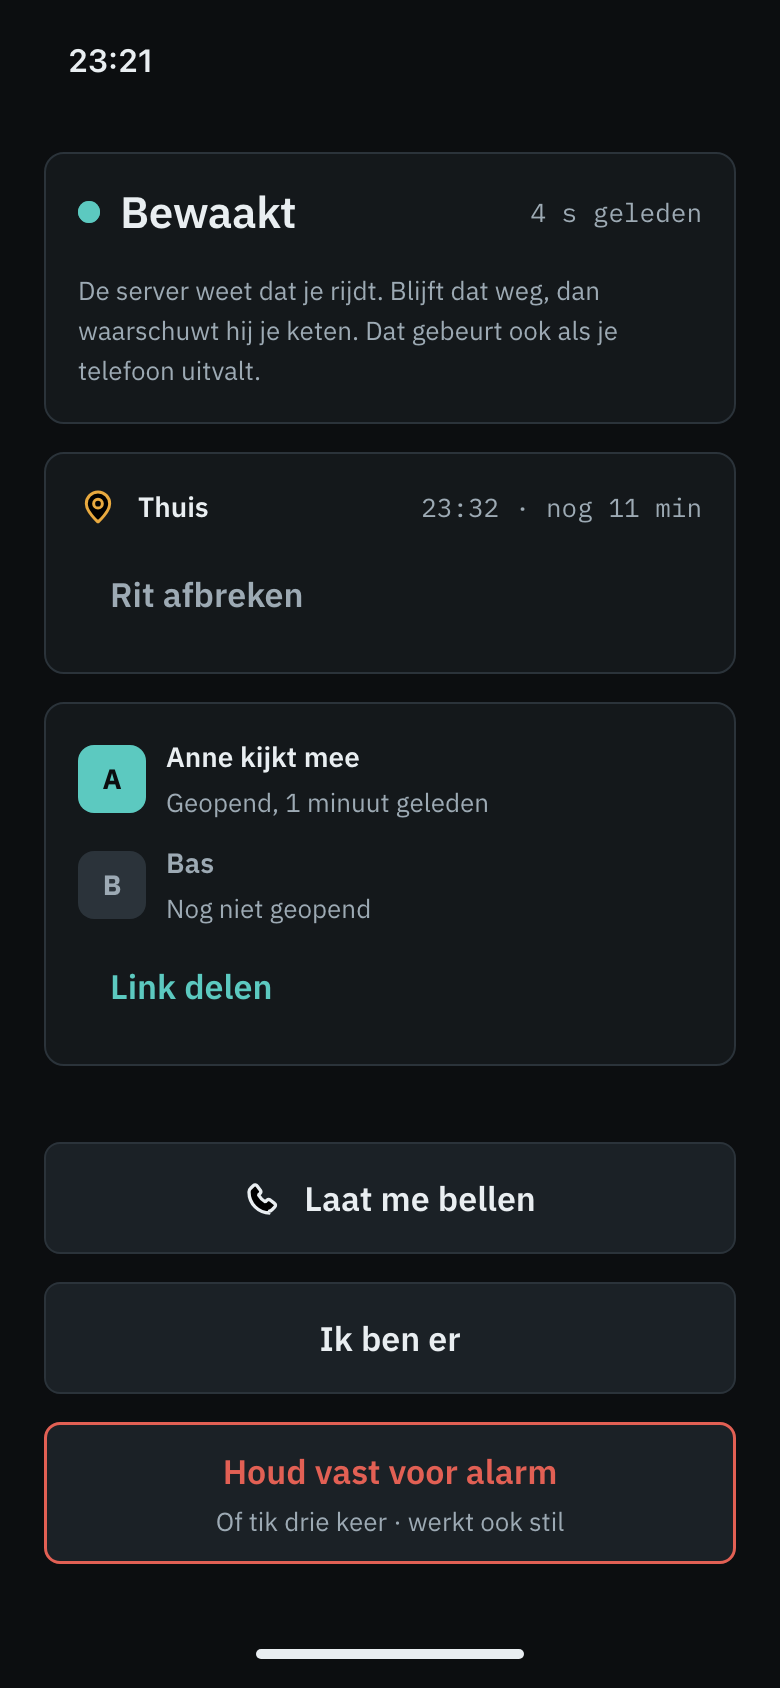
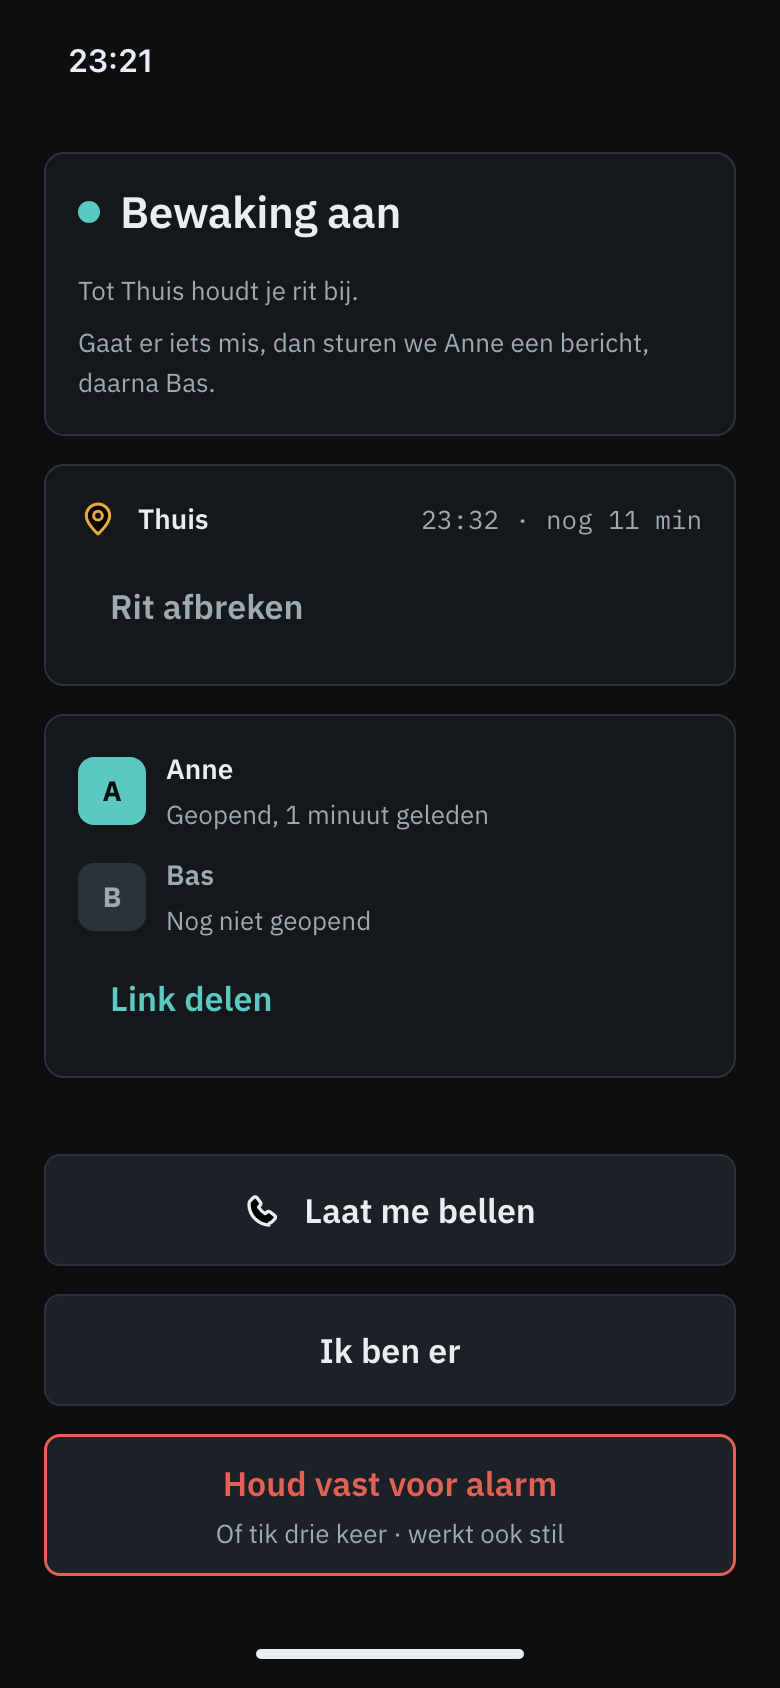
Het woordmerk in kop en voet, ruimte rond de kop op brede schermen, en het ritscherm van nu

diff --git a/index.html b/index.html
@@ -9,7 +9,7 @@
 </head>
 <body>
 <header class="breed kop">
-  <a class="merk" href="./">Tot Thuis</a>
+  <a class="merk" href="./" aria-label="Tot Thuis"><!-- woordmerk --><svg viewBox="0 0 434.21 221.22" width="84" height="42.8" aria-hidden="true" focusable="false"><path d="M0 25.23L0 1.61L84.83 1.61L84.83 25.23L56.38 25.23L56.38 101.61L28.46 101.61L28.46 25.23L0 25.23ZM131.14 103.22Q117.51 103.22 106.47 97.25Q95.43 91.28 88.99 79.77Q82.55 68.26 82.55 51.68Q82.55 34.97 88.99 23.42Q95.43 11.88 106.47 5.94Q117.51 0 131.14 0Q144.76 0 155.77 5.94Q166.77 11.88 173.25 23.42Q179.73 34.97 179.73 51.68Q179.73 68.32 173.25 79.83Q166.77 91.34 155.77 97.28Q144.76 103.22 131.14 103.22ZM131.14 79.06Q137.71 79.06 142.28 75.81Q146.84 72.55 149.19 66.41Q151.54 60.27 151.54 51.68Q151.54 43.02 149.19 36.85Q146.84 30.67 142.28 27.42Q137.71 24.16 131.14 24.16Q124.63 24.16 120.06 27.42Q115.5 30.67 113.12 36.85Q110.73 43.02 110.73 51.68Q110.73 60.27 113.12 66.41Q115.5 72.55 120.06 75.81Q124.63 79.06 131.14 79.06ZM177.44 25.23L177.44 1.61L262.27 1.61L262.27 25.23L233.82 25.23L233.82 101.61L205.9 101.61L205.9 25.23L177.44 25.23ZM0 143.23L0 119.61L84.83 119.61L84.83 143.23L56.38 143.23L56.38 219.61L28.46 219.61L28.46 143.23L0 143.23ZM89.86 219.61L89.86 119.61L117.78 119.61L117.78 156.99L151.07 156.99L151.07 119.61L178.99 119.61L178.99 219.61L151.07 219.61L151.07 180.62L117.78 180.62L117.78 219.61L89.86 219.61ZM229.79 221.22Q216.72 221.22 207.05 216.62Q197.38 212.03 192.04 203.66Q186.7 195.29 186.7 184.04L186.7 119.61L213.82 119.61L213.82 181.76Q213.82 186.39 215.9 189.98Q217.98 193.57 221.56 195.65Q225.14 197.73 229.82 197.73Q234.49 197.73 238.08 195.67Q241.66 193.61 243.71 190.03Q245.76 186.46 245.76 181.76L245.76 119.61L272.88 119.61L272.88 184.03Q272.88 195.32 267.55 203.68Q262.22 212.05 252.54 216.64Q242.86 221.22 229.79 221.22ZM308.51 119.61L308.51 219.61L280.59 219.61L280.59 119.61L308.51 119.61ZM358.11 221.22Q344.28 221.22 334.68 217.19Q325.09 213.17 320.12 205.35Q315.15 197.53 315.15 186.32L341.53 186.32Q341.73 190.35 343.84 193.23Q345.96 196.12 349.68 197.66Q353.41 199.21 358.44 199.21Q362.87 199.21 366.16 198.1Q369.45 196.99 371.29 195.01Q373.14 193.03 373.14 190.42Q373.14 188 371.39 186.19Q369.65 184.38 366.03 183.03Q362.4 181.69 356.76 180.62L346.83 178.74Q332.33 175.99 324.68 168.54Q317.03 161.09 317.03 149.95Q317.03 140.42 322.2 133.23Q327.37 126.05 336.56 122.03Q345.76 118 357.9 118Q370.39 118 379.38 121.96Q388.37 125.92 393.34 133.37Q398.31 140.82 398.64 151.29L373.01 151.29Q372.54 146.05 368.61 143.03Q364.68 140.01 358.44 140.01Q354.55 140.01 351.53 141.12Q348.51 142.23 346.8 144.14Q345.09 146.05 345.09 148.6Q345.09 151.02 346.63 152.7Q348.17 154.38 351.5 155.62Q354.82 156.86 359.98 157.8L368.04 159.28Q376.63 160.89 382.84 163.37Q389.05 165.85 393.01 169.41Q396.96 172.97 398.84 177.66Q400.72 182.36 400.72 188.34Q400.72 198.81 395.72 206.15Q390.72 213.5 381.19 217.36Q371.66 221.22 358.11 221.22Z" fill="currentColor"/><circle class="stip" cx="420.25" cy="206.93" r="13.96"/></svg><!-- /woordmerk --></a>
   <nav aria-label="Op deze pagina">
     <a href="#hoe">Hoe het werkt</a>
     <a href="privacy">Privacy</a>
@@ -27,7 +27,7 @@
     <div>
       <div class="toestellen">
         <figure class="toestel"><img src="beeld/keten.png" width="780" height="1688" alt="Het scherm Je keten: Anne en Bas staan als vertrouwenspersonen op volgorde, en Anne heeft op 2 oktober op een test gereageerd."></figure>
-        <figure class="toestel"><img src="beeld/rit.png" width="780" height="1688" alt="Het scherm tijdens een rit: bewaakt, onderweg naar Thuis, verwacht om 23:32, en Anne kijkt mee."></figure>
+        <figure class="toestel"><img src="beeld/rit.png" width="780" height="1688" alt="Het scherm tijdens een rit: bewaking aan, onderweg naar Thuis, verwacht om 23:32. Gaat er iets mis, dan stuurt de app Anne een bericht, daarna Bas."></figure>
       </div>
       <p class="onderschrift gedempt klein">Twee schermen uit de app, met voorbeeldnamen.</p>
     </div>
@@ -160,7 +160,7 @@
 
 <footer class="voet">
   <div class="breed">
-    <a class="merk" href="./">Tot Thuis</a>
+    <a class="merk" href="./" aria-label="Tot Thuis"><!-- woordmerk --><svg viewBox="0 0 434.21 221.22" width="84" height="42.8" aria-hidden="true" focusable="false"><path d="M0 25.23L0 1.61L84.83 1.61L84.83 25.23L56.38 25.23L56.38 101.61L28.46 101.61L28.46 25.23L0 25.23ZM131.14 103.22Q117.51 103.22 106.47 97.25Q95.43 91.28 88.99 79.77Q82.55 68.26 82.55 51.68Q82.55 34.97 88.99 23.42Q95.43 11.88 106.47 5.94Q117.51 0 131.14 0Q144.76 0 155.77 5.94Q166.77 11.88 173.25 23.42Q179.73 34.97 179.73 51.68Q179.73 68.32 173.25 79.83Q166.77 91.34 155.77 97.28Q144.76 103.22 131.14 103.22ZM131.14 79.06Q137.71 79.06 142.28 75.81Q146.84 72.55 149.19 66.41Q151.54 60.27 151.54 51.68Q151.54 43.02 149.19 36.85Q146.84 30.67 142.28 27.42Q137.71 24.16 131.14 24.16Q124.63 24.16 120.06 27.42Q115.5 30.67 113.12 36.85Q110.73 43.02 110.73 51.68Q110.73 60.27 113.12 66.41Q115.5 72.55 120.06 75.81Q124.63 79.06 131.14 79.06ZM177.44 25.23L177.44 1.61L262.27 1.61L262.27 25.23L233.82 25.23L233.82 101.61L205.9 101.61L205.9 25.23L177.44 25.23ZM0 143.23L0 119.61L84.83 119.61L84.83 143.23L56.38 143.23L56.38 219.61L28.46 219.61L28.46 143.23L0 143.23ZM89.86 219.61L89.86 119.61L117.78 119.61L117.78 156.99L151.07 156.99L151.07 119.61L178.99 119.61L178.99 219.61L151.07 219.61L151.07 180.62L117.78 180.62L117.78 219.61L89.86 219.61ZM229.79 221.22Q216.72 221.22 207.05 216.62Q197.38 212.03 192.04 203.66Q186.7 195.29 186.7 184.04L186.7 119.61L213.82 119.61L213.82 181.76Q213.82 186.39 215.9 189.98Q217.98 193.57 221.56 195.65Q225.14 197.73 229.82 197.73Q234.49 197.73 238.08 195.67Q241.66 193.61 243.71 190.03Q245.76 186.46 245.76 181.76L245.76 119.61L272.88 119.61L272.88 184.03Q272.88 195.32 267.55 203.68Q262.22 212.05 252.54 216.64Q242.86 221.22 229.79 221.22ZM308.51 119.61L308.51 219.61L280.59 219.61L280.59 119.61L308.51 119.61ZM358.11 221.22Q344.28 221.22 334.68 217.19Q325.09 213.17 320.12 205.35Q315.15 197.53 315.15 186.32L341.53 186.32Q341.73 190.35 343.84 193.23Q345.96 196.12 349.68 197.66Q353.41 199.21 358.44 199.21Q362.87 199.21 366.16 198.1Q369.45 196.99 371.29 195.01Q373.14 193.03 373.14 190.42Q373.14 188 371.39 186.19Q369.65 184.38 366.03 183.03Q362.4 181.69 356.76 180.62L346.83 178.74Q332.33 175.99 324.68 168.54Q317.03 161.09 317.03 149.95Q317.03 140.42 322.2 133.23Q327.37 126.05 336.56 122.03Q345.76 118 357.9 118Q370.39 118 379.38 121.96Q388.37 125.92 393.34 133.37Q398.31 140.82 398.64 151.29L373.01 151.29Q372.54 146.05 368.61 143.03Q364.68 140.01 358.44 140.01Q354.55 140.01 351.53 141.12Q348.51 142.23 346.8 144.14Q345.09 146.05 345.09 148.6Q345.09 151.02 346.63 152.7Q348.17 154.38 351.5 155.62Q354.82 156.86 359.98 157.8L368.04 159.28Q376.63 160.89 382.84 163.37Q389.05 165.85 393.01 169.41Q396.96 172.97 398.84 177.66Q400.72 182.36 400.72 188.34Q400.72 198.81 395.72 206.15Q390.72 213.5 381.19 217.36Q371.66 221.22 358.11 221.22Z" fill="currentColor"/><circle class="stip" cx="420.25" cy="206.93" r="13.96"/></svg><!-- /woordmerk --></a>
     <p class="regels">
       <span>Mischa van Schajik, Zaandam</span>
       <a href="mailto:info@totthuis.nl">info@totthuis.nl</a>

diff --git a/t.html b/t.html
@@ -10,7 +10,7 @@
 </head>
 <body>
 <header class="breed kop">
-  <a class="merk" href="./">Tot Thuis</a>
+  <a class="merk" href="./" aria-label="Tot Thuis"><!-- woordmerk --><svg viewBox="0 0 434.21 221.22" width="84" height="42.8" aria-hidden="true" focusable="false"><path d="M0 25.23L0 1.61L84.83 1.61L84.83 25.23L56.38 25.23L56.38 101.61L28.46 101.61L28.46 25.23L0 25.23ZM131.14 103.22Q117.51 103.22 106.47 97.25Q95.43 91.28 88.99 79.77Q82.55 68.26 82.55 51.68Q82.55 34.97 88.99 23.42Q95.43 11.88 106.47 5.94Q117.51 0 131.14 0Q144.76 0 155.77 5.94Q166.77 11.88 173.25 23.42Q179.73 34.97 179.73 51.68Q179.73 68.32 173.25 79.83Q166.77 91.34 155.77 97.28Q144.76 103.22 131.14 103.22ZM131.14 79.06Q137.71 79.06 142.28 75.81Q146.84 72.55 149.19 66.41Q151.54 60.27 151.54 51.68Q151.54 43.02 149.19 36.85Q146.84 30.67 142.28 27.42Q137.71 24.16 131.14 24.16Q124.63 24.16 120.06 27.42Q115.5 30.67 113.12 36.85Q110.73 43.02 110.73 51.68Q110.73 60.27 113.12 66.41Q115.5 72.55 120.06 75.81Q124.63 79.06 131.14 79.06ZM177.44 25.23L177.44 1.61L262.27 1.61L262.27 25.23L233.82 25.23L233.82 101.61L205.9 101.61L205.9 25.23L177.44 25.23ZM0 143.23L0 119.61L84.83 119.61L84.83 143.23L56.38 143.23L56.38 219.61L28.46 219.61L28.46 143.23L0 143.23ZM89.86 219.61L89.86 119.61L117.78 119.61L117.78 156.99L151.07 156.99L151.07 119.61L178.99 119.61L178.99 219.61L151.07 219.61L151.07 180.62L117.78 180.62L117.78 219.61L89.86 219.61ZM229.79 221.22Q216.72 221.22 207.05 216.62Q197.38 212.03 192.04 203.66Q186.7 195.29 186.7 184.04L186.7 119.61L213.82 119.61L213.82 181.76Q213.82 186.39 215.9 189.98Q217.98 193.57 221.56 195.65Q225.14 197.73 229.82 197.73Q234.49 197.73 238.08 195.67Q241.66 193.61 243.71 190.03Q245.76 186.46 245.76 181.76L245.76 119.61L272.88 119.61L272.88 184.03Q272.88 195.32 267.55 203.68Q262.22 212.05 252.54 216.64Q242.86 221.22 229.79 221.22ZM308.51 119.61L308.51 219.61L280.59 219.61L280.59 119.61L308.51 119.61ZM358.11 221.22Q344.28 221.22 334.68 217.19Q325.09 213.17 320.12 205.35Q315.15 197.53 315.15 186.32L341.53 186.32Q341.73 190.35 343.84 193.23Q345.96 196.12 349.68 197.66Q353.41 199.21 358.44 199.21Q362.87 199.21 366.16 198.1Q369.45 196.99 371.29 195.01Q373.14 193.03 373.14 190.42Q373.14 188 371.39 186.19Q369.65 184.38 366.03 183.03Q362.4 181.69 356.76 180.62L346.83 178.74Q332.33 175.99 324.68 168.54Q317.03 161.09 317.03 149.95Q317.03 140.42 322.2 133.23Q327.37 126.05 336.56 122.03Q345.76 118 357.9 118Q370.39 118 379.38 121.96Q388.37 125.92 393.34 133.37Q398.31 140.82 398.64 151.29L373.01 151.29Q372.54 146.05 368.61 143.03Q364.68 140.01 358.44 140.01Q354.55 140.01 351.53 141.12Q348.51 142.23 346.8 144.14Q345.09 146.05 345.09 148.6Q345.09 151.02 346.63 152.7Q348.17 154.38 351.5 155.62Q354.82 156.86 359.98 157.8L368.04 159.28Q376.63 160.89 382.84 163.37Q389.05 165.85 393.01 169.41Q396.96 172.97 398.84 177.66Q400.72 182.36 400.72 188.34Q400.72 198.81 395.72 206.15Q390.72 213.5 381.19 217.36Q371.66 221.22 358.11 221.22Z" fill="currentColor"/><circle class="stip" cx="420.25" cy="206.93" r="13.96"/></svg><!-- /woordmerk --></a>
 </header>
 <main class="kolom">
   <h1 id="titel">Deze pagina hoort bij een test van Tot Thuis</h1>
@@ -29,7 +29,7 @@
 </main>
 <footer class="voet">
   <div class="breed">
-    <a class="merk" href="./">Tot Thuis</a>
+    <a class="merk" href="./" aria-label="Tot Thuis"><!-- woordmerk --><svg viewBox="0 0 434.21 221.22" width="84" height="42.8" aria-hidden="true" focusable="false"><path d="M0 25.23L0 1.61L84.83 1.61L84.83 25.23L56.38 25.23L56.38 101.61L28.46 101.61L28.46 25.23L0 25.23ZM131.14 103.22Q117.51 103.22 106.47 97.25Q95.43 91.28 88.99 79.77Q82.55 68.26 82.55 51.68Q82.55 34.97 88.99 23.42Q95.43 11.88 106.47 5.94Q117.51 0 131.14 0Q144.76 0 155.77 5.94Q166.77 11.88 173.25 23.42Q179.73 34.97 179.73 51.68Q179.73 68.32 173.25 79.83Q166.77 91.34 155.77 97.28Q144.76 103.22 131.14 103.22ZM131.14 79.06Q137.71 79.06 142.28 75.81Q146.84 72.55 149.19 66.41Q151.54 60.27 151.54 51.68Q151.54 43.02 149.19 36.85Q146.84 30.67 142.28 27.42Q137.71 24.16 131.14 24.16Q124.63 24.16 120.06 27.42Q115.5 30.67 113.12 36.85Q110.73 43.02 110.73 51.68Q110.73 60.27 113.12 66.41Q115.5 72.55 120.06 75.81Q124.63 79.06 131.14 79.06ZM177.44 25.23L177.44 1.61L262.27 1.61L262.27 25.23L233.82 25.23L233.82 101.61L205.9 101.61L205.9 25.23L177.44 25.23ZM0 143.23L0 119.61L84.83 119.61L84.83 143.23L56.38 143.23L56.38 219.61L28.46 219.61L28.46 143.23L0 143.23ZM89.86 219.61L89.86 119.61L117.78 119.61L117.78 156.99L151.07 156.99L151.07 119.61L178.99 119.61L178.99 219.61L151.07 219.61L151.07 180.62L117.78 180.62L117.78 219.61L89.86 219.61ZM229.79 221.22Q216.72 221.22 207.05 216.62Q197.38 212.03 192.04 203.66Q186.7 195.29 186.7 184.04L186.7 119.61L213.82 119.61L213.82 181.76Q213.82 186.39 215.9 189.98Q217.98 193.57 221.56 195.65Q225.14 197.73 229.82 197.73Q234.49 197.73 238.08 195.67Q241.66 193.61 243.71 190.03Q245.76 186.46 245.76 181.76L245.76 119.61L272.88 119.61L272.88 184.03Q272.88 195.32 267.55 203.68Q262.22 212.05 252.54 216.64Q242.86 221.22 229.79 221.22ZM308.51 119.61L308.51 219.61L280.59 219.61L280.59 119.61L308.51 119.61ZM358.11 221.22Q344.28 221.22 334.68 217.19Q325.09 213.17 320.12 205.35Q315.15 197.53 315.15 186.32L341.53 186.32Q341.73 190.35 343.84 193.23Q345.96 196.12 349.68 197.66Q353.41 199.21 358.44 199.21Q362.87 199.21 366.16 198.1Q369.45 196.99 371.29 195.01Q373.14 193.03 373.14 190.42Q373.14 188 371.39 186.19Q369.65 184.38 366.03 183.03Q362.4 181.69 356.76 180.62L346.83 178.74Q332.33 175.99 324.68 168.54Q317.03 161.09 317.03 149.95Q317.03 140.42 322.2 133.23Q327.37 126.05 336.56 122.03Q345.76 118 357.9 118Q370.39 118 379.38 121.96Q388.37 125.92 393.34 133.37Q398.31 140.82 398.64 151.29L373.01 151.29Q372.54 146.05 368.61 143.03Q364.68 140.01 358.44 140.01Q354.55 140.01 351.53 141.12Q348.51 142.23 346.8 144.14Q345.09 146.05 345.09 148.6Q345.09 151.02 346.63 152.7Q348.17 154.38 351.5 155.62Q354.82 156.86 359.98 157.8L368.04 159.28Q376.63 160.89 382.84 163.37Q389.05 165.85 393.01 169.41Q396.96 172.97 398.84 177.66Q400.72 182.36 400.72 188.34Q400.72 198.81 395.72 206.15Q390.72 213.5 381.19 217.36Q371.66 221.22 358.11 221.22Z" fill="currentColor"/><circle class="stip" cx="420.25" cy="206.93" r="13.96"/></svg><!-- /woordmerk --></a>
     <p class="regels">
       <a href="mailto:info@totthuis.nl">info@totthuis.nl</a>
       <a href="privacy">Privacy</a>

diff --git a/privacy.html b/privacy.html
@@ -9,7 +9,7 @@
 </head>
 <body>
 <header class="breed kop">
-  <a class="merk" href="./">Tot Thuis</a>
+  <a class="merk" href="./" aria-label="Tot Thuis"><!-- woordmerk --><svg viewBox="0 0 434.21 221.22" width="84" height="42.8" aria-hidden="true" focusable="false"><path d="M0 25.23L0 1.61L84.83 1.61L84.83 25.23L56.38 25.23L56.38 101.61L28.46 101.61L28.46 25.23L0 25.23ZM131.14 103.22Q117.51 103.22 106.47 97.25Q95.43 91.28 88.99 79.77Q82.55 68.26 82.55 51.68Q82.55 34.97 88.99 23.42Q95.43 11.88 106.47 5.94Q117.51 0 131.14 0Q144.76 0 155.77 5.94Q166.77 11.88 173.25 23.42Q179.73 34.97 179.73 51.68Q179.73 68.32 173.25 79.83Q166.77 91.34 155.77 97.28Q144.76 103.22 131.14 103.22ZM131.14 79.06Q137.71 79.06 142.28 75.81Q146.84 72.55 149.19 66.41Q151.54 60.27 151.54 51.68Q151.54 43.02 149.19 36.85Q146.84 30.67 142.28 27.42Q137.71 24.16 131.14 24.16Q124.63 24.16 120.06 27.42Q115.5 30.67 113.12 36.85Q110.73 43.02 110.73 51.68Q110.73 60.27 113.12 66.41Q115.5 72.55 120.06 75.81Q124.63 79.06 131.14 79.06ZM177.44 25.23L177.44 1.61L262.27 1.61L262.27 25.23L233.82 25.23L233.82 101.61L205.9 101.61L205.9 25.23L177.44 25.23ZM0 143.23L0 119.61L84.83 119.61L84.83 143.23L56.38 143.23L56.38 219.61L28.46 219.61L28.46 143.23L0 143.23ZM89.86 219.61L89.86 119.61L117.78 119.61L117.78 156.99L151.07 156.99L151.07 119.61L178.99 119.61L178.99 219.61L151.07 219.61L151.07 180.62L117.78 180.62L117.78 219.61L89.86 219.61ZM229.79 221.22Q216.72 221.22 207.05 216.62Q197.38 212.03 192.04 203.66Q186.7 195.29 186.7 184.04L186.7 119.61L213.82 119.61L213.82 181.76Q213.82 186.39 215.9 189.98Q217.98 193.57 221.56 195.65Q225.14 197.73 229.82 197.73Q234.49 197.73 238.08 195.67Q241.66 193.61 243.71 190.03Q245.76 186.46 245.76 181.76L245.76 119.61L272.88 119.61L272.88 184.03Q272.88 195.32 267.55 203.68Q262.22 212.05 252.54 216.64Q242.86 221.22 229.79 221.22ZM308.51 119.61L308.51 219.61L280.59 219.61L280.59 119.61L308.51 119.61ZM358.11 221.22Q344.28 221.22 334.68 217.19Q325.09 213.17 320.12 205.35Q315.15 197.53 315.15 186.32L341.53 186.32Q341.73 190.35 343.84 193.23Q345.96 196.12 349.68 197.66Q353.41 199.21 358.44 199.21Q362.87 199.21 366.16 198.1Q369.45 196.99 371.29 195.01Q373.14 193.03 373.14 190.42Q373.14 188 371.39 186.19Q369.65 184.38 366.03 183.03Q362.4 181.69 356.76 180.62L346.83 178.74Q332.33 175.99 324.68 168.54Q317.03 161.09 317.03 149.95Q317.03 140.42 322.2 133.23Q327.37 126.05 336.56 122.03Q345.76 118 357.9 118Q370.39 118 379.38 121.96Q388.37 125.92 393.34 133.37Q398.31 140.82 398.64 151.29L373.01 151.29Q372.54 146.05 368.61 143.03Q364.68 140.01 358.44 140.01Q354.55 140.01 351.53 141.12Q348.51 142.23 346.8 144.14Q345.09 146.05 345.09 148.6Q345.09 151.02 346.63 152.7Q348.17 154.38 351.5 155.62Q354.82 156.86 359.98 157.8L368.04 159.28Q376.63 160.89 382.84 163.37Q389.05 165.85 393.01 169.41Q396.96 172.97 398.84 177.66Q400.72 182.36 400.72 188.34Q400.72 198.81 395.72 206.15Q390.72 213.5 381.19 217.36Q371.66 221.22 358.11 221.22Z" fill="currentColor"/><circle class="stip" cx="420.25" cy="206.93" r="13.96"/></svg><!-- /woordmerk --></a>
   <nav aria-label="Op deze pagina">
     <a href="#english" lang="en">In English</a>
   </nav>
@@ -86,7 +86,7 @@
 
 <footer class="voet">
   <div class="breed">
-    <a class="merk" href="./">Tot Thuis</a>
+    <a class="merk" href="./" aria-label="Tot Thuis"><!-- woordmerk --><svg viewBox="0 0 434.21 221.22" width="84" height="42.8" aria-hidden="true" focusable="false"><path d="M0 25.23L0 1.61L84.83 1.61L84.83 25.23L56.38 25.23L56.38 101.61L28.46 101.61L28.46 25.23L0 25.23ZM131.14 103.22Q117.51 103.22 106.47 97.25Q95.43 91.28 88.99 79.77Q82.55 68.26 82.55 51.68Q82.55 34.97 88.99 23.42Q95.43 11.88 106.47 5.94Q117.51 0 131.14 0Q144.76 0 155.77 5.94Q166.77 11.88 173.25 23.42Q179.73 34.97 179.73 51.68Q179.73 68.32 173.25 79.83Q166.77 91.34 155.77 97.28Q144.76 103.22 131.14 103.22ZM131.14 79.06Q137.71 79.06 142.28 75.81Q146.84 72.55 149.19 66.41Q151.54 60.27 151.54 51.68Q151.54 43.02 149.19 36.85Q146.84 30.67 142.28 27.42Q137.71 24.16 131.14 24.16Q124.63 24.16 120.06 27.42Q115.5 30.67 113.12 36.85Q110.73 43.02 110.73 51.68Q110.73 60.27 113.12 66.41Q115.5 72.55 120.06 75.81Q124.63 79.06 131.14 79.06ZM177.44 25.23L177.44 1.61L262.27 1.61L262.27 25.23L233.82 25.23L233.82 101.61L205.9 101.61L205.9 25.23L177.44 25.23ZM0 143.23L0 119.61L84.83 119.61L84.83 143.23L56.38 143.23L56.38 219.61L28.46 219.61L28.46 143.23L0 143.23ZM89.86 219.61L89.86 119.61L117.78 119.61L117.78 156.99L151.07 156.99L151.07 119.61L178.99 119.61L178.99 219.61L151.07 219.61L151.07 180.62L117.78 180.62L117.78 219.61L89.86 219.61ZM229.79 221.22Q216.72 221.22 207.05 216.62Q197.38 212.03 192.04 203.66Q186.7 195.29 186.7 184.04L186.7 119.61L213.82 119.61L213.82 181.76Q213.82 186.39 215.9 189.98Q217.98 193.57 221.56 195.65Q225.14 197.73 229.82 197.73Q234.49 197.73 238.08 195.67Q241.66 193.61 243.71 190.03Q245.76 186.46 245.76 181.76L245.76 119.61L272.88 119.61L272.88 184.03Q272.88 195.32 267.55 203.68Q262.22 212.05 252.54 216.64Q242.86 221.22 229.79 221.22ZM308.51 119.61L308.51 219.61L280.59 219.61L280.59 119.61L308.51 119.61ZM358.11 221.22Q344.28 221.22 334.68 217.19Q325.09 213.17 320.12 205.35Q315.15 197.53 315.15 186.32L341.53 186.32Q341.73 190.35 343.84 193.23Q345.96 196.12 349.68 197.66Q353.41 199.21 358.44 199.21Q362.87 199.21 366.16 198.1Q369.45 196.99 371.29 195.01Q373.14 193.03 373.14 190.42Q373.14 188 371.39 186.19Q369.65 184.38 366.03 183.03Q362.4 181.69 356.76 180.62L346.83 178.74Q332.33 175.99 324.68 168.54Q317.03 161.09 317.03 149.95Q317.03 140.42 322.2 133.23Q327.37 126.05 336.56 122.03Q345.76 118 357.9 118Q370.39 118 379.38 121.96Q388.37 125.92 393.34 133.37Q398.31 140.82 398.64 151.29L373.01 151.29Q372.54 146.05 368.61 143.03Q364.68 140.01 358.44 140.01Q354.55 140.01 351.53 141.12Q348.51 142.23 346.8 144.14Q345.09 146.05 345.09 148.6Q345.09 151.02 346.63 152.7Q348.17 154.38 351.5 155.62Q354.82 156.86 359.98 157.8L368.04 159.28Q376.63 160.89 382.84 163.37Q389.05 165.85 393.01 169.41Q396.96 172.97 398.84 177.66Q400.72 182.36 400.72 188.34Q400.72 198.81 395.72 206.15Q390.72 213.5 381.19 217.36Q371.66 221.22 358.11 221.22Z" fill="currentColor"/><circle class="stip" cx="420.25" cy="206.93" r="13.96"/></svg><!-- /woordmerk --></a>
     <p class="regels">
       <span>Mischa van Schajik, Zaandam</span>
       <a href="mailto:info@totthuis.nl">info@totthuis.nl</a>

diff --git a/stijl.css b/stijl.css
@@ -58,8 +58,13 @@ a:focus-visible, button:focus-visible { outline: 2px solid var(--inkt); outline-
 
 /* Kop en woordmerk */
 .kop { display: flex; align-items: center; justify-content: space-between; gap: 10px 24px; padding-top: 22px; padding-bottom: 22px; flex-wrap: wrap; }
-.merk { display: inline-flex; align-items: center; gap: 10px; font-size: 22px; font-weight: 600; letter-spacing: -0.02em; color: var(--inkt); text-decoration: none; }
-.merk::before { content: ''; width: 10px; height: 10px; border-radius: 50%; background: var(--accent); }
+/* Het woordmerk is een vorm uit scripts/maak-woordmerk.py, in twee varianten
+   uit dezelfde vector: donkere letters op licht (de kop), lichte letters op
+   donker (de voet). De stip is in beide de accentkleur (DESIGNSYSTEEM,
+   Woordmerk). */
+.merk { display: inline-block; line-height: 0; color: var(--inkt); text-decoration: none; }
+.merk svg { display: block; width: 84px; height: auto; }
+.merk .stip { fill: var(--accent); }
 .kop nav { display: flex; gap: 6px 20px; flex-wrap: wrap; font-size: 15px; }
 
 /* De opening */
@@ -103,7 +108,8 @@ a:focus-visible, button:focus-visible { outline: 2px solid var(--inkt); outline-
 
 /* De voet */
 .voet { background: var(--nacht); color: var(--nacht-tekst); padding-top: 44px; padding-bottom: 44px; }
-.voet a, .voet .merk { color: inherit; }
+.voet a { color: inherit; }
+.voet .merk { color: var(--nacht-tekst); }
 .voet .regels { display: flex; flex-wrap: wrap; gap: 10px 30px; margin-top: 16px; font-size: 15px; }
 
 /* De testpagina en de privacypagina: één kolom */
@@ -132,7 +138,8 @@ button[disabled] { opacity: 0.6; cursor: default; }
 [hidden] { display: none !important; }
 
 @media (min-width: 760px) {
-  .breed { padding: 0 32px; }
+  /* Alleen opzij: de kop houdt zo zijn ruimte boven en onder. */
+  .breed { padding-left: 32px; padding-right: 32px; }
   .opening { grid-template-columns: 1.1fr 1fr; align-items: center; padding-top: 30px; padding-bottom: 96px; }
   .cijfers { grid-template-columns: repeat(3, 1fr); }
   .blok { padding-top: 96px; padding-bottom: 96px; }
